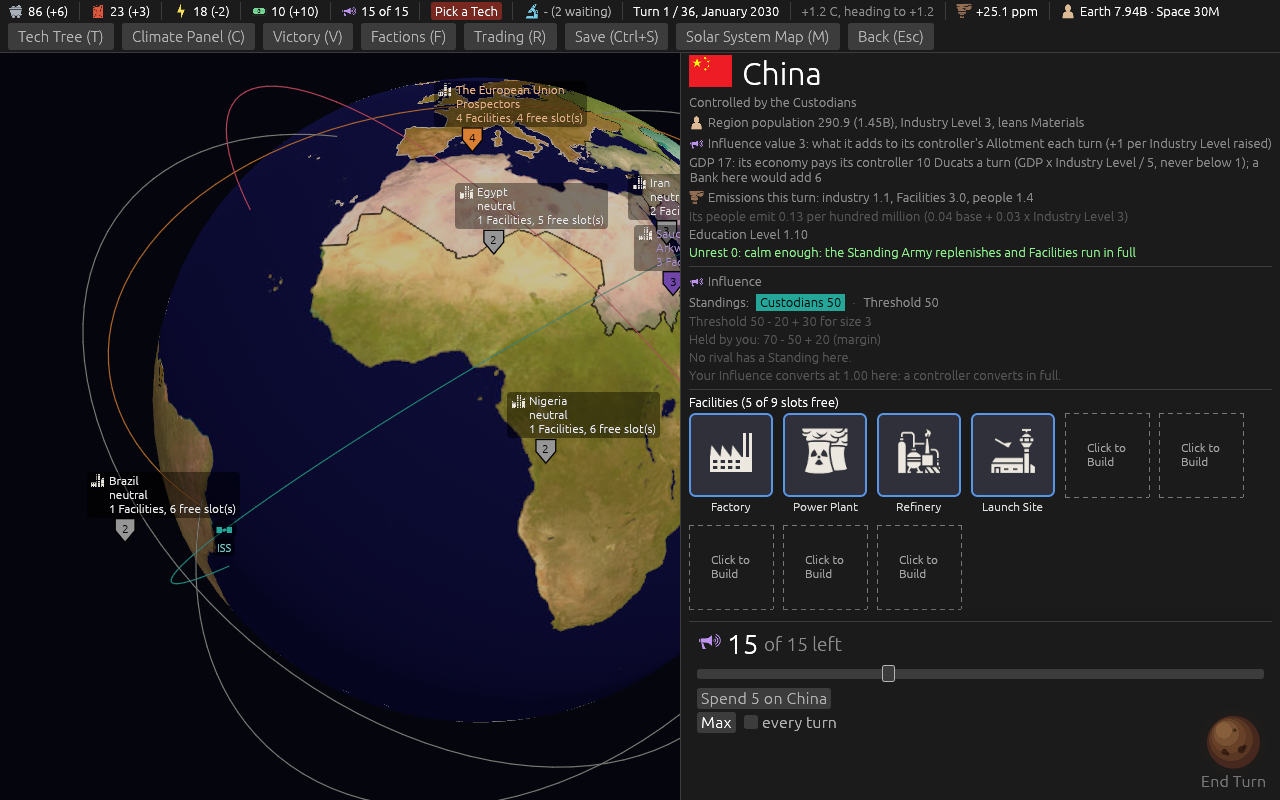
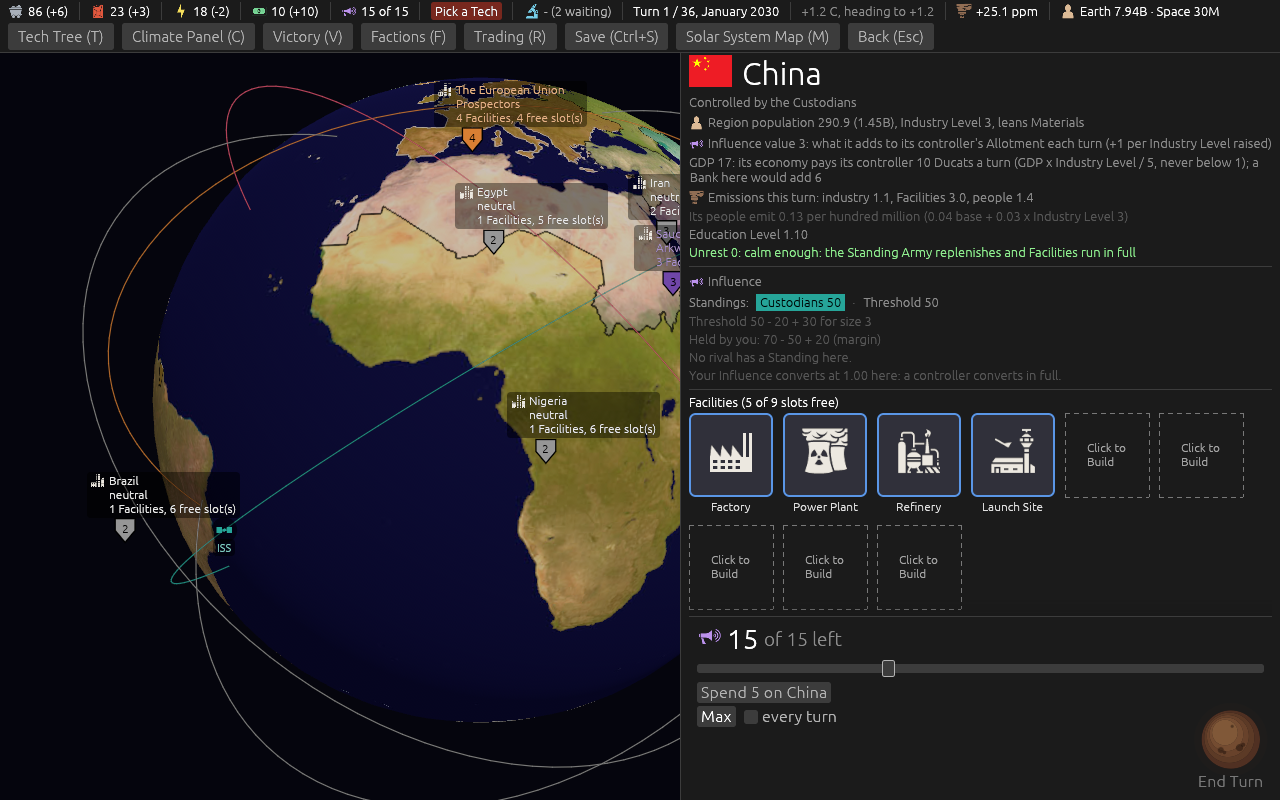
The sun softened and a tenth larger (ticket #294)
At the designer's word on the first picture: the sun's rings sit closer in
colour and drift less toward the light, and the disc is 46 wide at the
cluster's scale where it was 42.

Changed region(s): [[0.5312, 0.7812, 1.0, 1.0]]

diff --git a/src/ui.rs b/src/ui.rs
@@ -2969,7 +2969,9 @@ fn command_cluster(ui: &mut Ui, session: &Session, game: &Game, view: &mut ViewS
         // which takes one row; on its own it would take the whole remaining height (the Faction
         // window's dropdown learned that first).
         ui.with_layout(egui::Layout::right_to_left(egui::Align::Center), |ui| {
-            let resp = sun_button(ui, can_end_turn(game, view), 42.0 * CLUSTER_SCALE, "End Turn");
+            // A tenth larger again at the designer's word, on seeing the first picture: "make it
+            // 10% larger".
+            let resp = sun_button(ui, can_end_turn(game, view), 46.2 * CLUSTER_SCALE, "End Turn");
             if resp.on_hover_text("End the turn (Enter).").on_disabled_hover_text("Pick a Tech first").clicked() {
                 press_end_turn(session, game, view, actions);
             }
@@ -2994,34 +2996,37 @@ fn sun_button(ui: &mut Ui, enabled: bool, diameter: f32, word: &str) -> egui::Re
     let p = ui.painter();
     let lit = enabled && resp.hovered();
     // The palette: a sun, or its embers while End Turn is dead.
+    // Softened on the designer's word at the first picture ("soften the shading"): the rings sit
+    // closer in colour and drift less, so the disc reads as one lit body rather than a target.
     let (glow, limb, rings, spot, ink): (Color32, Color32, [Color32; 4], Color32, Color32) = if enabled {
         (
             Color32::from_rgba_unmultiplied(255, 170, 60, if lit { 70 } else { 40 }),
-            Color32::from_rgb(190, 80, 20),
-            [Color32::from_rgb(235, 130, 35), Color32::from_rgb(250, 175, 55), Color32::from_rgb(255, 215, 110), Color32::from_rgb(255, 245, 190)],
-            Color32::from_rgba_unmultiplied(110, 40, 10, 210),
+            Color32::from_rgb(215, 110, 30),
+            [Color32::from_rgb(238, 150, 45), Color32::from_rgb(248, 180, 70), Color32::from_rgb(252, 205, 105), Color32::from_rgb(255, 228, 150)],
+            Color32::from_rgba_unmultiplied(120, 50, 15, 170),
             Color32::from_rgb(255, 225, 160),
         )
     } else {
         (
             Color32::from_rgba_unmultiplied(120, 70, 40, 20),
-            Color32::from_rgb(70, 40, 30),
-            [Color32::from_rgb(90, 55, 35), Color32::from_rgb(105, 65, 40), Color32::from_rgb(120, 80, 50), Color32::from_rgb(135, 95, 60)],
-            Color32::from_rgba_unmultiplied(40, 20, 10, 210),
+            Color32::from_rgb(80, 48, 34),
+            [Color32::from_rgb(92, 58, 38), Color32::from_rgb(104, 66, 43), Color32::from_rgb(116, 76, 49), Color32::from_rgb(128, 88, 56)],
+            Color32::from_rgba_unmultiplied(40, 20, 10, 170),
             Color32::from_gray(120),
         )
     };
     p.circle_filled(centre, r * 1.25, glow);
     p.circle_filled(centre, r, limb);
-    // Four discs, each smaller and brighter, drifting toward the light above and to the left.
+    // Four discs, each a little smaller and brighter, drifting gently toward the light above and
+    // to the left.
     for (i, colour) in rings.iter().enumerate() {
         let k = (i + 1) as f32;
-        let shrink = 1.0 - 0.17 * k;
-        let off = egui::vec2(-r * 0.09 * k, -r * 0.11 * k);
+        let shrink = 1.0 - 0.14 * k;
+        let off = egui::vec2(-r * 0.05 * k, -r * 0.06 * k);
         p.circle_filled(centre + off, r * shrink, *colour);
     }
     // Sunspots: two pairs low on the disc where the light does not reach, and one alone.
-    for (dx, dy, s) in [(0.30, 0.28, 0.13), (0.42, 0.18, 0.08), (-0.34, 0.36, 0.11), (-0.22, 0.44, 0.07), (0.05, -0.45, 0.06)] {
+    for (dx, dy, s) in [(0.30, 0.28, 0.12), (0.42, 0.18, 0.07), (-0.34, 0.36, 0.10), (-0.22, 0.44, 0.06), (0.05, -0.45, 0.05)] {
         p.circle_filled(centre + egui::vec2(r * dx, r * dy), r * s, spot);
     }
     p.text(egui::pos2(rect.center().x, centre.y + r + 3.0), egui::Align2::CENTER_TOP, word, FontId::proportional(13.0 * CLUSTER_SCALE), ink);

diff --git a/docs/dev-diary/2026-09-21-version-0.08.6/ticket-294-command-cluster/README.md b/docs/dev-diary/2026-09-21-version-0.08.6/ticket-294-command-cluster/README.md
@@ -5,7 +5,7 @@ Ticket [#294](https://github.com/whaleyjoshua2/Dying-Earth/issues/294) on
 
 | picture | what it shows |
 |---|---|
-| [`cluster-china-selected.png`](cluster-china-selected.png) | `shot: select:eastasia panel:0 window:1280x1100`. The cluster with China selected: the Allotment line, the **rail** from 0 to 15 with the knob at 5, **Spend 5 on China**, then the last row with **Max** and **every turn** on the left and the **sun** at the right edge with *End Turn* beneath it. The card above it, at the new scale, ends at the Unrest heading where it reached the Relief buttons before; the strip took what it gained. |
+| [`cluster-china-selected.png`](cluster-china-selected.png) | `shot: select:eastasia panel:0`, 1280x800. The cluster with China selected: the Allotment line, the **rail** from 0 to 15 with the knob at 5, **Spend 5 on China**, then the last row with **Max** and **every turn** on the left and the **sun** at the right edge with *End Turn* beneath it. Taken after the designer's second word on the first picture -- *"soften the shading and make it 10% larger"* -- so the sun is 46 wide at the cluster's scale with its rings closer in colour. The card above it, at the new scale, ends at its Facilities grid on an 800-pixel window; the strip took what it gained. |
 | [`cluster-nothing-selected.png`](cluster-nothing-selected.png) | `shot: panel:0`, 1280x800. Nothing selected: the rail still drawn, the Spend line reading *Click a Region or a Colony to spend on it*, Max and the tick greyed, the sun lit. |
 | [`cluster-pick-owed-embers.png`](cluster-pick-owed-embers.png) | `shot: select:eastasia pick:0 panel:0`. A Tech pick owed: the sun dimmed to embers and its word greyed, the bar carrying **Pick a Tech**. |
 | [`cluster-max-standing.png`](cluster-max-standing.png) | `shot: select:eastasia attend:1 panel:0`. Max standing on China: the whole rail greyed, the knob at 0, *Spend 0 on China* disabled, *every turn on China* ticked. |
@@ -28,7 +28,9 @@ No batch was run: an interface change; the engine is untouched.
   darker limb, four discs each smaller and brighter drifting toward a light above and to the left,
   five fixed sunspots low on the disc, and the word beneath. Gold and orange rather than the
   cluster's red, since it is the sun; it brightens a little on hover and dims to browns while End
-  Turn cannot be pressed. Diameter 42 at the cluster's scale.
+  Turn cannot be pressed. Diameter 42 at the cluster's scale in the first cut; **46.2, with the
+  rings closer in colour and drifting less**, after the designer saw it: *"can we soften the
+  shading and make it 10% larger."*
 - The rail is drawn whether or not a place is selected, so the strip never changes shape; the Spend
   button beneath it names the amount and the place.
 - The spectator's End Turn on the top bar stays a rectangle; a spectator has no cluster.
